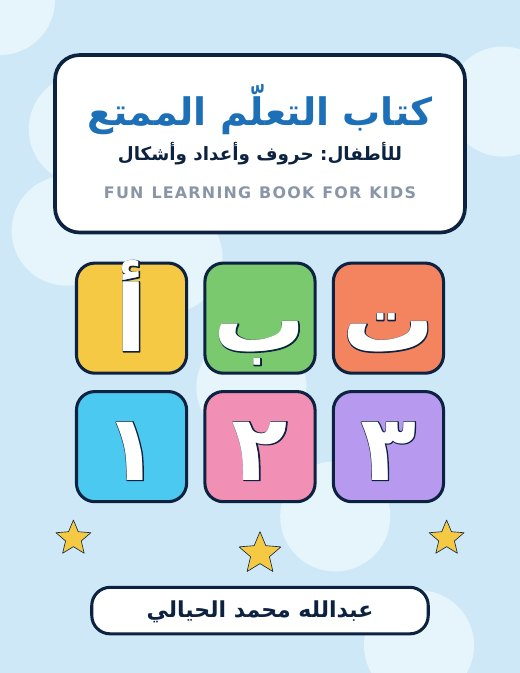
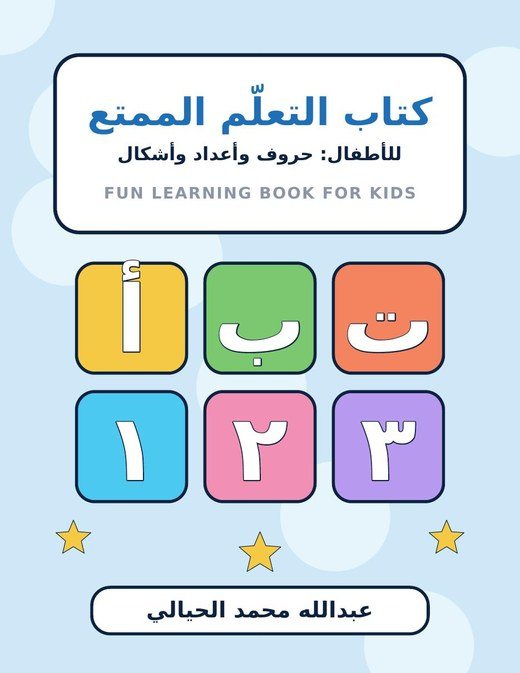
Approve v2 tool covers, new social image, product JSON-LD, cache bump
Claude-Session: https://claude.ai/code/session_016q9ZNLwyLmgR9mcGbU214j

diff --git a/index.html b/index.html
@@ -1,5 +1,5 @@
 <!doctype html>
-<html lang="ar" dir="rtl" data-lang="ar"><head><meta charset="utf-8"><meta name="viewport" content="width=device-width,initial-scale=1,viewport-fit=cover"><title>مكتبة الحيالي الرقمية · Al-Hayali Digital Library</title><meta name="description" content="كتب تلوين بزخارف إسلامية، ومخططات دراسة وامتحانات، وقوالب سيرة ذاتية، وكتاب تعليمي للأطفال، ومتتبع صلوات وعادات. ملفات رقمية حلال، بلا طباعة أو شحن."><meta name="theme-color" content="#071730"><link rel="icon" type="image/svg+xml" href="assets/favicon.svg"><meta property="og:type" content="website"><meta property="og:title" content="مكتبة الحيالي الرقمية · Al-Hayali Digital Library"><meta property="og:description" content="كتب تلوين بزخارف إسلامية، ومخططات دراسة وامتحانات، وقوالب سيرة ذاتية، وكتاب تعليمي للأطفال، ومتتبع صلوات وعادات. ملفات رقمية حلال، بلا طباعة أو شحن."><meta property="og:image" content="https://aboudiiii.github.io/assets/og2.jpg"><meta property="og:image:width" content="1200"><meta property="og:image:height" content="630"><meta property="og:url" content="https://aboudiiii.github.io/"><meta name="twitter:card" content="summary_large_image"><link rel="preconnect" href="https://fonts.googleapis.com"><link rel="preconnect" href="https://fonts.gstatic.com" crossorigin><link rel="stylesheet" href="https://fonts.googleapis.com/css2?family=Marcellus&family=Reem+Kufi:wght@500;700&family=IBM+Plex+Sans+Arabic:wght@400;500;600&display=swap"><link rel="stylesheet" href="assets/style.css?v=8"></head><body>
+<html lang="ar" dir="rtl" data-lang="ar"><head><meta charset="utf-8"><meta name="viewport" content="width=device-width,initial-scale=1,viewport-fit=cover"><title>مكتبة الحيالي الرقمية · Al-Hayali Digital Library</title><meta name="description" content="كتب تلوين بزخارف إسلامية، ومخططات دراسة وامتحانات، وقوالب سيرة ذاتية، وكتاب تعليمي للأطفال، ومتتبع صلوات وعادات. ملفات رقمية حلال، بلا طباعة أو شحن."><meta name="theme-color" content="#071730"><link rel="icon" type="image/svg+xml" href="assets/favicon.svg"><meta property="og:type" content="website"><meta property="og:title" content="مكتبة الحيالي الرقمية · Al-Hayali Digital Library"><meta property="og:description" content="كتب تلوين بزخارف إسلامية، ومخططات دراسة وامتحانات، وقوالب سيرة ذاتية، وكتاب تعليمي للأطفال، ومتتبع صلوات وعادات. ملفات رقمية حلال، بلا طباعة أو شحن."><meta property="og:image" content="https://aboudiiii.github.io/assets/og3.jpg"><meta property="og:image:width" content="1200"><meta property="og:image:height" content="630"><meta property="og:url" content="https://aboudiiii.github.io/"><meta name="twitter:card" content="summary_large_image"><link rel="preconnect" href="https://fonts.googleapis.com"><link rel="preconnect" href="https://fonts.gstatic.com" crossorigin><link rel="stylesheet" href="https://fonts.googleapis.com/css2?family=Marcellus&family=Reem+Kufi:wght@500;700&family=IBM+Plex+Sans+Arabic:wght@400;500;600&display=swap"><link rel="stylesheet" href="assets/style.css?v=9"><script type="application/ld+json">{"@context": "https://schema.org", "@type": "ItemList", "name": "مكتبة الحيالي الرقمية", "itemListElement": [{"@type": "ListItem", "position": 1, "item": {"@type": "Product", "name": "الزخارف الإسلامية — دفتر تلوين للكبار", "image": "https://aboudiiii.github.io/assets/i_cover.jpg", "brand": "Al-Hayali Digital Library", "offers": {"@type": "Offer", "price": 7, "priceCurrency": "USD", "availability": "https://schema.org/InStock"}}}, {"@type": "ListItem", "position": 2, "item": {"@type": "Product", "name": "ألوان الطبيعة للأطفال", "image": "https://aboudiiii.github.io/assets/k_cover.jpg", "brand": "Al-Hayali Digital Library", "offers": {"@type": "Offer", "price": 4, "priceCurrency": "USD", "availability": "https://schema.org/InStock"}}}, {"@type": "ListItem", "position": 3, "item": {"@type": "Product", "name": "مندالا هندسية", "image": "https://aboudiiii.github.io/assets/mandala_cover.jpg", "brand": "Al-Hayali Digital Library", "offers": {"@type": "Offer", "price": 3, "priceCurrency": "USD", "availability": "https://schema.org/InStock"}}}, {"@type": "ListItem", "position": 4, "item": {"@type": "Product", "name": "مساجد وعمارة إسلامية", "image": "https://aboudiiii.github.io/assets/mosques_cover.jpg", "brand": "Al-Hayali Digital Library", "offers": {"@type": "Offer", "price": 3, "priceCurrency": "USD", "availability": "https://schema.org/InStock"}}}, {"@type": "ListItem", "position": 5, "item": {"@type": "Product", "name": "زخارف نباتية", "image": "https://aboudiiii.github.io/assets/floral_cover.jpg", "brand": "Al-Hayali Digital Library", "offers": {"@type": "Offer", "price": 3, "priceCurrency": "USD", "availability": "https://schema.org/InStock"}}}, {"@type": "ListItem", "position": 6, "item": {"@type": "Product", "name": "نجوم وبلاطات هندسية", "image": "https://aboudiiii.github.io/assets/stars_cover.jpg", "brand": "Al-Hayali Digital Library", "offers": {"@type": "Offer", "price": 4, "priceCurrency": "USD", "availability": "https://schema.org/InStock"}}}, {"@type": "ListItem", "position": 7, "item": {"@type": "Product", "name": "مخطط الدراسة والامتحانات", "image": "https://aboudiiii.github.io/assets/planner_cover.jpg", "brand": "Al-Hayali Digital Library", "offers": {"@type": "Offer", "price": 4, "priceCurrency": "USD", "availability": "https://schema.org/InStock"}}}, {"@type": "ListItem", "position": 8, "item": {"@type": "Product", "name": "قوالب السيرة الذاتية (Word)", "image": "https://aboudiiii.github.io/assets/cv_cover.jpg", "brand": "Al-Hayali Digital Library", "offers": {"@type": "Offer", "price": 4, "priceCurrency": "USD", "availability": "https://schema.org/InStock"}}}, {"@type": "ListItem", "position": 9, "item": {"@type": "Product", "name": "كتاب التعلّم الممتع للأطفال", "image": "https://aboudiiii.github.io/assets/learn_cover.jpg", "brand": "Al-Hayali Digital Library", "offers": {"@type": "Offer", "price": 4, "priceCurrency": "USD", "availability": "https://schema.org/InStock"}}}, {"@type": "ListItem", "position": 10, "item": {"@type": "Product", "name": "متتبع الصلوات والعادات", "image": "https://aboudiiii.github.io/assets/tracker_cover.jpg", "brand": "Al-Hayali Digital Library", "offers": {"@type": "Offer", "price": 3, "priceCurrency": "USD", "availability": "https://schema.org/InStock"}}}]}</script></head><body>
 <svg width="0" height="0" style="position:absolute" aria-hidden="true"><defs>
 <symbol id="st" viewBox="0 0 24 24"><path d="M12 1l2.6 4.4 5-1.2-1.2 5 4.4 2.6-4.4 2.6 1.2 5-5-1.2L12 23l-2.6-4.4-5 1.2 1.2-5L1.2 12.2l4.4-2.6-1.2-5 5 1.2z"/></symbol>
 <symbol id="i-file" viewBox="0 0 24 24"><path d="M6 2h9l5 5v15H6z"/><path d="M14 2v6h6"/></symbol>
@@ -243,6 +243,6 @@
 
 <div class="cartbar" id="cartbar"><div><div id="cartn" style="font-size:14px;color:#e6dcc0"></div><b id="cartt">$0</b></div><a class="btn gold" href="#order"><span data-l="ar">أكمل الطلب</span><span data-l="en">Continue</span></a></div>
 <div class="lb" id="lb"><button type="button" id="lbx">✕</button><img alt="" id="lbi" src=""></div>
-<script src="assets/app.js?v=8"></script>
-<script src="assets/play.js?v=8"></script>
+<script src="assets/app.js?v=9"></script>
+<script src="assets/play.js?v=9"></script>
 </body></html>

diff --git a/assets/app.js b/assets/app.js
@@ -36,7 +36,7 @@ var g=document.getElementById("packs"), h="";
 g.innerHTML=h;
 var tg2=document.getElementById("tools"); h="";
 ["p","c","e","t"].forEach(function(k){var x=P[k];
- h+='<article class="pk"><div class="book"><img class="cover" width="520" height="673" loading="lazy" alt="" src="assets/'+x.img+'.jpg?v=1"></div>'
+ h+='<article class="pk"><div class="book"><img class="cover" width="520" height="673" loading="lazy" alt="" src="assets/'+x.img+'.jpg?v=2"></div>'
   +'<h3>'+sp(x.ar,x.en)+'</h3><p>'+sp(x.d_ar,x.d_en)+'</p>'
   +'<details class="inc"><summary>'+sp("ماذا بداخله؟","What is inside?")+'</summary><ul>'+x.inc_ar.map(function(t,i){return '<li>'+sp(t,x.inc_en[i])+'</li>'}).join("")+'</ul></details>'
   +'<div class="bar"><div class="price">$'+x.p+'</div><button type="button" data-pick="'+k+'">'+sp("أضف للطلب","Add to order")+'</button></div></article>'});
@@ -47,7 +47,7 @@ document.querySelectorAll(".price").forEach(function(p){
  p.insertBefore(e,p.querySelector("small")||null)});
 var list=document.getElementById("items"); h="";
 ["i","k","m","a","f","s","p","c","e","t"].forEach(function(k){
- h+='<label class="item"><input type="checkbox" value="'+k+'" id="c_'+k+'"><img alt="" loading="lazy" src="assets/'+P[k].img+'.jpg?v=3"><span class="n" data-name="'+k+'"></span><span class="p">$'+P[k].p+'</span></label>'});
+ h+='<label class="item"><input type="checkbox" value="'+k+'" id="c_'+k+'"><img alt="" loading="lazy" src="assets/'+P[k].img+'.jpg?v=4"><span class="n" data-name="'+k+'"></span><span class="p">$'+P[k].p+'</span></label>'});
 list.innerHTML=h;
 var boxes=[].slice.call(list.querySelectorAll("input")), msg=document.getElementById("msg"),
     totalEl=document.getElementById("total"), saveEl=document.getElementById("saving"), tg=document.getElementById("tg"), st=document.getElementById("state"),
